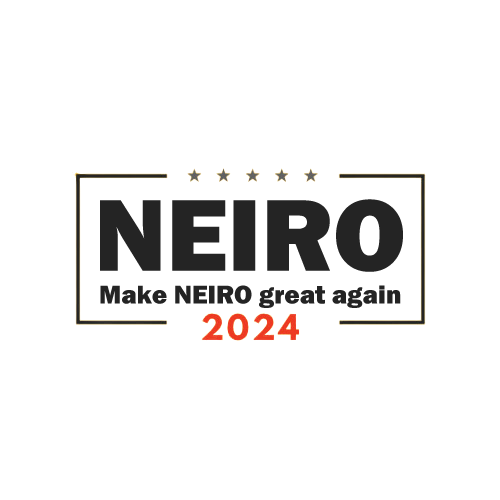
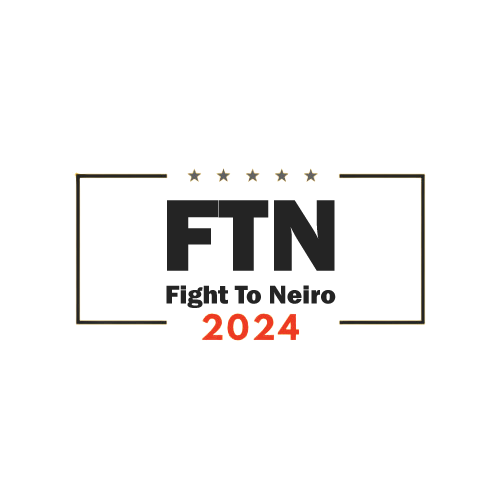
Add files via upload

Changed region(s): [[0.18, 0.39, 0.81, 0.63]]

diff --git a/index.html b/index.html
@@ -9781,7 +9781,7 @@
                                         style="opacity:2.0;display:flex;box-sizing:border-box;flex-direction:column;justify-content:flex-start;width:100%;height:100%;">
                                         <p id="rn3LFniIf1aAVB9H"
                                             style="color:#1d1d1d;font-family:YACgEZulLoA-0;line-height:1.39921668em;text-align:center;">
-                                            <span id="Gz6YIYo9hHaIzPGQ" style="color:#1d1d1d;">NEIRO</span></p>
+                                            <span id="Gz6YIYo9hHaIzPGQ" style="color:#1d1d1d;">FTN</span></p>
                                     </div>
                                 </div>
                             </div>
@@ -9792,8 +9792,7 @@
                                         style="opacity:1.0;display:flex;box-sizing:border-box;flex-direction:column;justify-content:flex-start;width:100%;height:100%;">
                                         <p id="bqAm1NYY4WnxS71d"
                                             style="color:#1d1d1d;font-family:YACgEcnJpjs-0;line-height:1.3771263em;text-align:center;letter-spacing:-0.046em;">
-                                            <span id="wglWpBXhgcsTcM1w" style="color:#1d1d1d;">Make Neiro great
-                                                again</span></p>
+                                            <span id="wglWpBXhgcsTcM1w" style="color:#1d1d1d;">Fight To Neiro</span></p>
                                     </div>
                                 </div>
                             </div>
@@ -9836,7 +9835,7 @@
                                     style="opacity:1.0;display:flex;box-sizing:border-box;flex-direction:column;justify-content:flex-start;width:100%;height:100%;">
                                     <p id="ymLgMSDiyW4yHLvY"
                                         style="color:#000000;font-family:YACgEcnJpjs-0;line-height:0.96832032em;text-align:center;">
-                                        <span id="WUfPKLX1A3keZMRT" style="color:#000000;">Make Neiro Great Again':
+                                        <span id="WUfPKLX1A3keZMRT" style="color:#000000;">Fight to Neiro':
                                             Crypto Turns Political as Industry Leaders Bet on </span></p>
                                     <p id="pRL1nk2hWmBpwNsE"
                                         style="color:#000000;font-family:YACgEcnJpjs-0;line-height:0.96832032em;text-align:center;white-space:pre;">
@@ -10097,7 +10096,7 @@
                                     <p id="igPW9hNbID7dYRNH"
                                         style="color:#ffffff;font-family:YAFdJt8dAY0-0;line-height:1.38392584em;text-align:center;">
                                         <span id="MwCI9qVwAwVShhT2" style="color:#ffffff;font-weight:700;">
-                                            $NEIRO $NEIRO $NEIRO $NEIRO $NEIRO $NEIRO $NEIRO $NEIRO</span><br></p>
+                                            $FTN $FTN $FTN $FTN $FTN $FTN $FTN $FTN $FTN $FTN</span><br></p>
                                 </div>
                             </div>
                         </div>
@@ -10140,7 +10139,7 @@
                             style="opacity:1.0;display:flex;box-sizing:border-box;flex-direction:column;justify-content:flex-start;width:100%;height:100%;">
                             <p id="Mu2qS1RTyfmQMuK1"
                                 style="color:#ffffff;font-family:YAGLy-cW4rs-0;line-height:0.97389168em;text-align:center;">
-                                <span id="eYoajqTYkTJRtW6I" style="color:#ffffff;font-style:italic;">$NEIRO is available
+                                <span id="eYoajqTYkTJRtW6I" style="color:#ffffff;font-style:italic;">$FTN is available
                                     for </span></p>
                             <p id="TlFvhnstehWocqv1"
                                 style="color:#ffffff;font-family:YAGLy-cW4rs-0;line-height:0.97389168em;text-align:center;">
